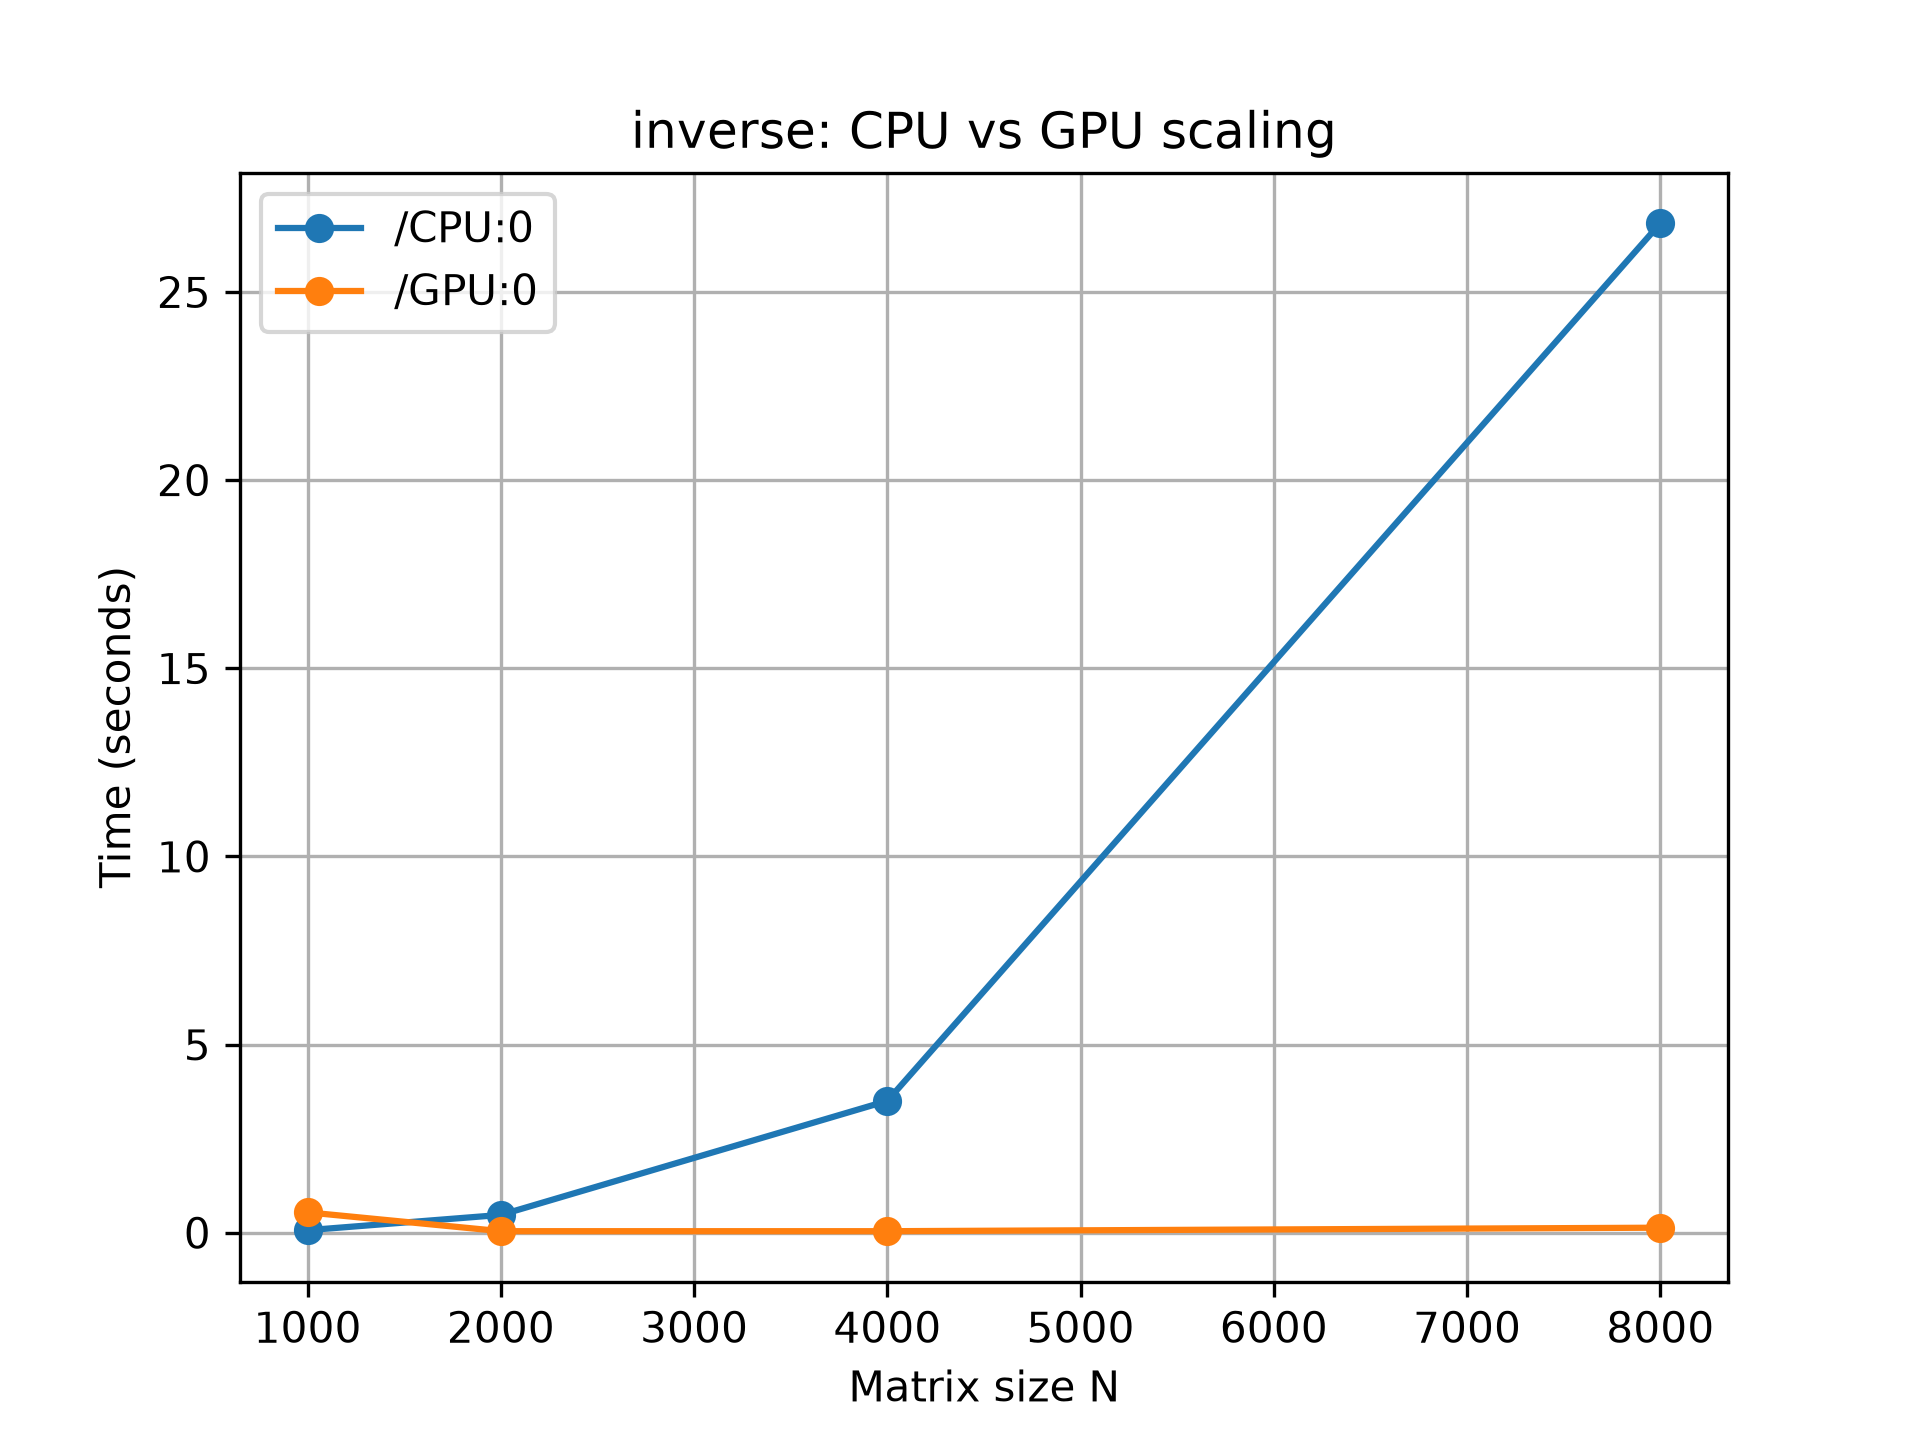
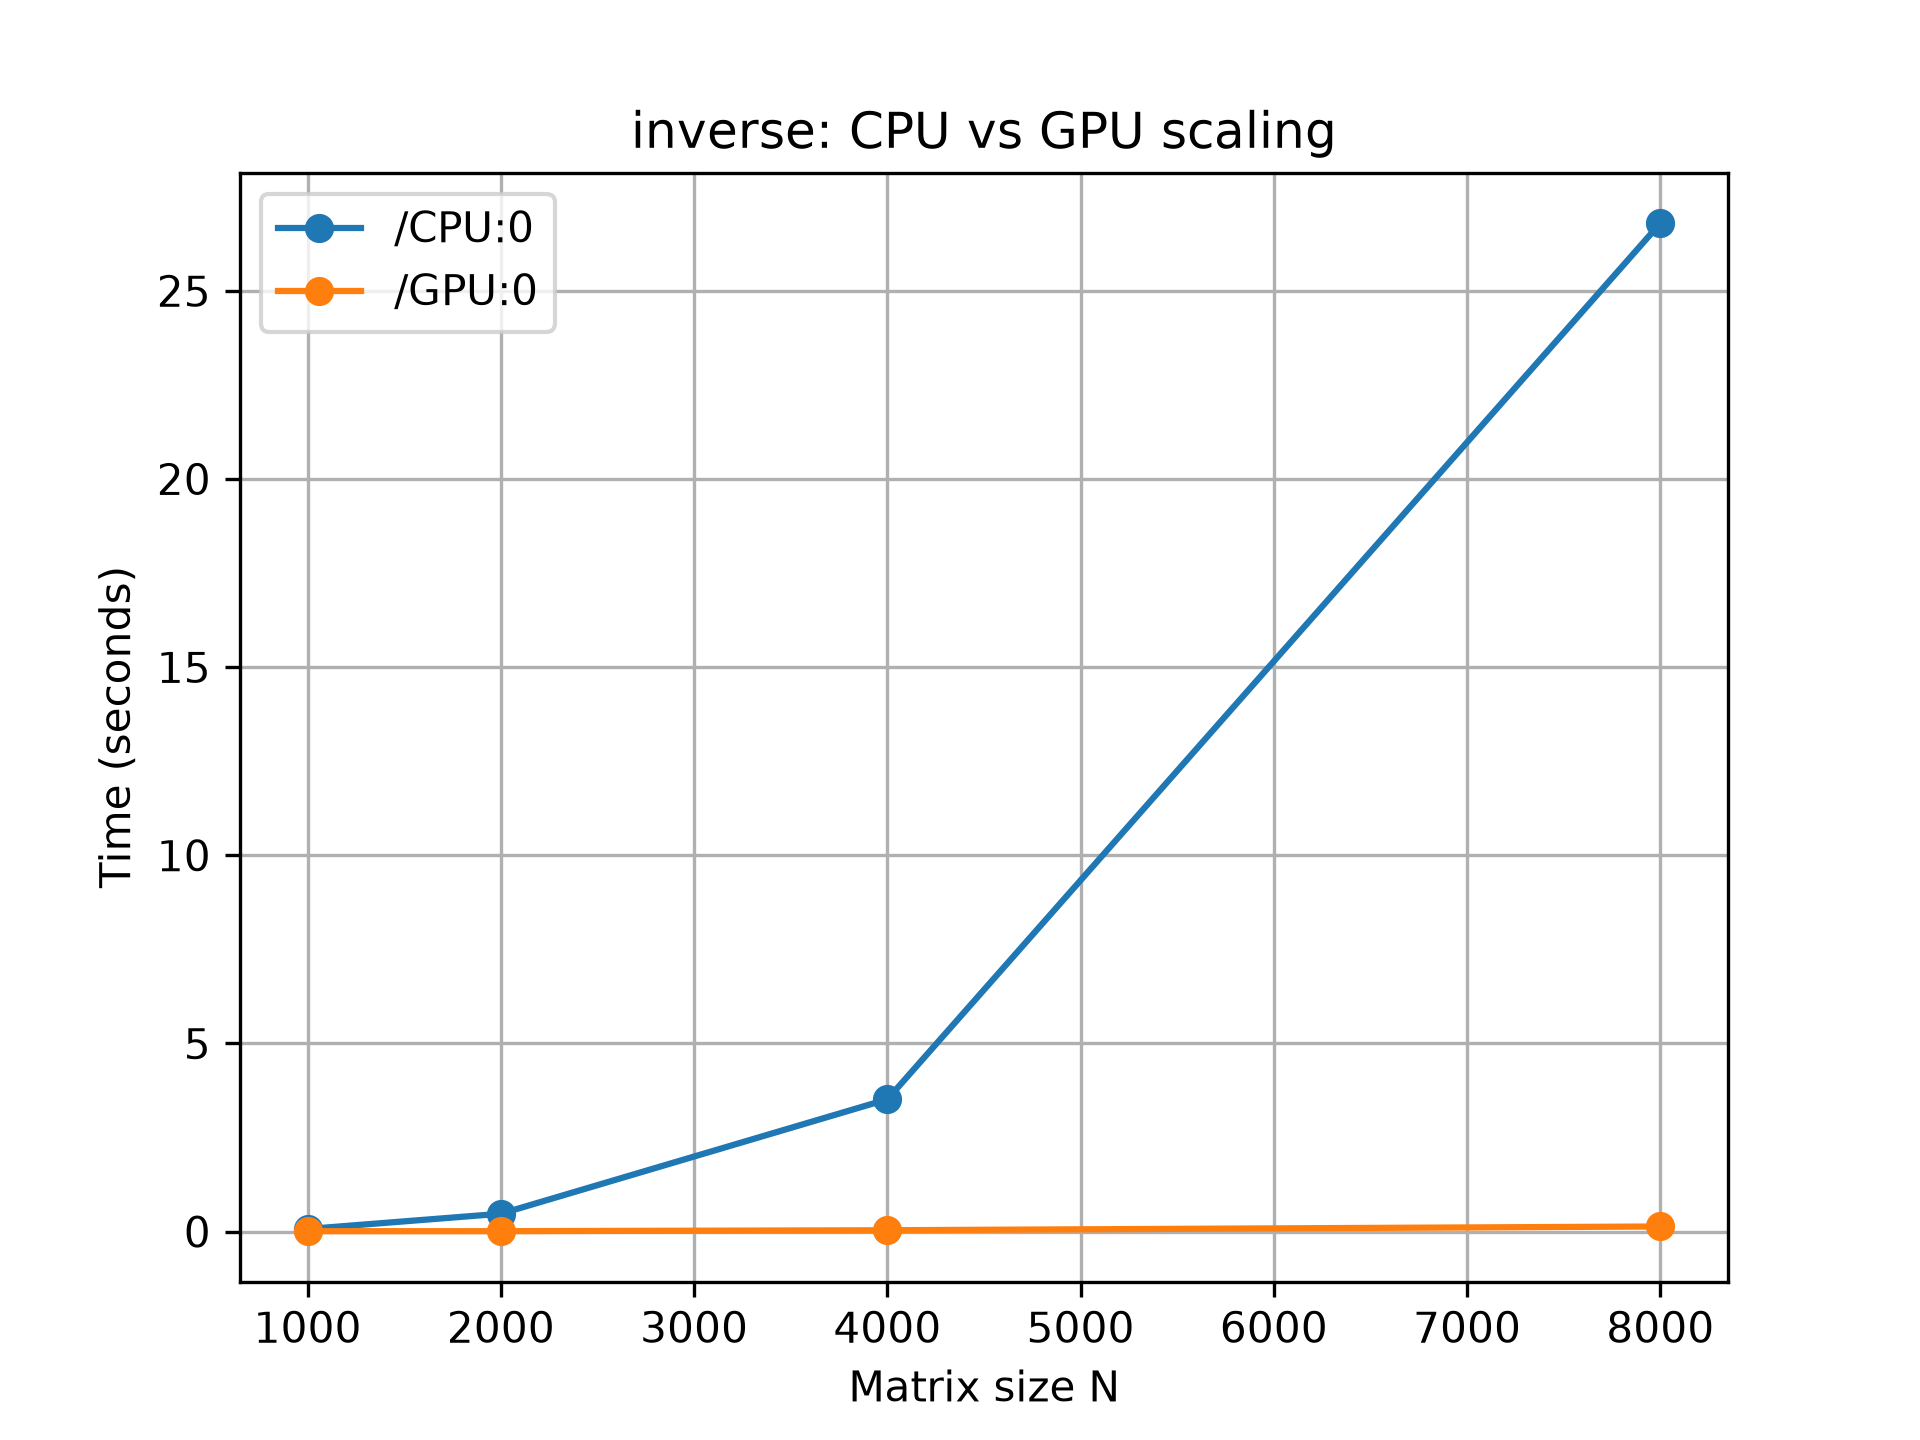
Replace stale Xena/K40 benchmarks with fresh Easley l40s numbers
Fixes #235. The old "CARC Benchmarks" section referenced an NVIDIA
Tesla K40 on the retired Xena cluster. Removed it entirely and
replaced it with real benchmark data + fresh plots generated on
Easley's l40s partition (single L40S GPU), comparing CPU vs GPU for
matrix multiplication and inversion at N=1000/2000/4000/8000.

diff --git a/multiGPU_tensorflow_tutorial.md b/multiGPU_tensorflow_tutorial.md
@@ -10,11 +10,7 @@ These gains in computation time give researchers good reason to move computation
 
 ### CARC Benchmarks
 
-To illustrate the CPU-vs-GPU performance gap, here are benchmarks run on the (legacy) Xena system at CARC using intensive linear algebra operations — matrix multiplication and matrix inversion — comparing CPU-only execution to GPU-accelerated execution.
-
-The CPU version was deployed on a multicore processor with 16 cores and 64GB of RAM, using NumPy arrays in Python. The GPU version was deployed on an NVIDIA Tesla K40 with 11GB of GPU memory, using TensorFlow. The CPU implementations were tested with two different NumPy builds: `mkl_mul` refers to multiplication using NumPy compiled with Intel's Math Kernel Library (MKL), while `nomkl_mul` refers to NumPy without MKL. MKL-based NumPy was installed in a Conda environment, whereas NumPy installed via pip does not integrate MKL.
-
-The old Xena cluster had nodes with both single- and dual-GPU configurations. A dual-GPU node offered 2×11GB of GPU memory, allowing larger batch sizes and roughly double the cores for faster training of larger, more complex models. `gpu_mul` corresponds to multiplication on a single-GPU node, and `dualgpu_mul` corresponds to multiplication on a dual-GPU node. A similar benchmark was run for matrix inversion.
+To illustrate the CPU-vs-GPU performance gap, here are benchmarks run on Easley's `l40s` partition (a single NVIDIA L40S GPU), comparing CPU-only execution against GPU-accelerated execution for matrix multiplication and matrix inversion using TensorFlow at increasing matrix sizes (N = 1000, 2000, 4000, 8000).
 
 ![](Images/matrix_inverse.png)
 
@@ -24,7 +20,7 @@ Fig 1. Time for matrix inversion vs. size of matrix N
 
 Fig 2. Time for matrix multiplication vs. size of matrix N
 
-The implementation code for these benchmarks can be found [here](https://github.com/ceodspspectrum/CARC_WORK/tree/master/master).
+Both operations scale far better on the GPU as matrix size grows. At N=8000, matrix multiplication takes 0.59s on CPU versus 0.08s on the GPU (about 7x faster), and matrix inversion takes 26.8s on CPU versus 0.13s on the GPU (about 200x faster) — inversion in particular benefits from the GPU's parallelism since its computational cost grows faster with matrix size than multiplication's does.
 
 ### TensorFlow Basics
 
